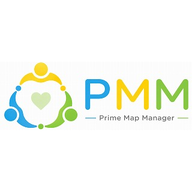
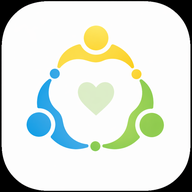
Add files via upload

Changed region(s): [[0.0, 0.0, 1.0, 1.0]]

diff --git a/styles.css b/styles.css
@@ -16,7 +16,7 @@ dialog{border:0;border-radius:22px;padding:0;background:var(--panel);color:var(-
 .dialog-head-actions{display:flex;align-items:center;gap:8px;}
 
 
-/* v007 adjustments */
+/* v008 adjustments */
 .helper-actions{margin-top:8px;flex-wrap:wrap}
 .preview-dialog{width:100vw!important;height:100dvh!important;max-width:none!important;border-radius:0!important;background:#000!important;padding:0!important}
 .preview-dialog img{width:min(92vw,620px)!important;height:auto!important;max-height:88dvh!important;object-fit:contain!important}
@@ -28,4 +28,49 @@ dialog{border:0;border-radius:22px;padding:0;background:var(--panel);color:var(-
   .home-card .toolbar-actions{gap:8px}
   .helper-actions .secondary-btn{font-size:12px;padding:7px 9px;min-height:34px}
   .preview-dialog img{width:94vw!important;max-height:84dvh!important}
+}
+
+/* v008 refinements */
+.form-row textarea{min-height:170px!important;line-height:1.55!important}
+@media(max-width:640px){.form-row textarea{min-height:190px!important}}
+.preview-dialog{
+  position:fixed!important;
+  top:calc(env(safe-area-inset-top) + 10px)!important;
+  left:50%!important;
+  transform:translateX(-50%)!important;
+  width:min(96vw,720px)!important;
+  height:auto!important;
+  max-height:46dvh!important;
+  max-width:none!important;
+  border-radius:18px!important;
+  background:rgba(0,0,0,.92)!important;
+  padding:48px 10px 12px!important;
+  display:none;
+  place-items:center;
+  overflow:hidden!important;
+  z-index:9999!important;
+}
+.preview-dialog[open]{display:grid!important}
+.preview-dialog::backdrop{background:transparent!important}
+.preview-dialog img{
+  width:auto!important;
+  max-width:92vw!important;
+  height:auto!important;
+  max-height:calc(46dvh - 70px)!important;
+  object-fit:contain!important;
+}
+.preview-close{
+  position:absolute!important;
+  right:12px!important;
+  top:8px!important;
+  color:#fff!important;
+  background:rgba(15,23,42,.78)!important;
+  border-color:rgba(255,255,255,.35)!important;
+  min-height:36px!important;
+  padding:7px 12px!important;
+  z-index:2!important;
+}
+@media(max-width:640px){
+  .preview-dialog{top:calc(env(safe-area-inset-top) + 6px)!important;width:96vw!important;max-height:43dvh!important;padding-top:44px!important}
+  .preview-dialog img{max-height:calc(43dvh - 62px)!important;max-width:92vw!important}
 }

diff --git a/index.html b/index.html
@@ -6,7 +6,7 @@
   <meta name="theme-color" content="#0f4c81">
   <title>PMM Pocket Web</title>
   <link rel="manifest" href="manifest.webmanifest">
-  <link rel="stylesheet" href="styles.css?v=007">
+  <link rel="stylesheet" href="styles.css?v=008">
 </head>
 <body>
   <div id="app">
@@ -15,7 +15,7 @@
         <img src="assets/icon-192.png" alt="PMM" class="brand-icon">
         <div>
           <div class="brand-title">PMM Pocket Web</div>
-          <div class="brand-sub">PMMスマホ版 v007</div>
+          <div class="brand-sub">PMMスマホ版 v008</div>
         </div>
       </div>
       <button id="darkToggle" class="ghost-btn" type="button" data-dark-toggle>ダーク</button>
@@ -26,7 +26,7 @@
         <div class="start-brand">
           <img src="assets/icon-192.png" alt="PMM" class="start-icon">
           <h1>PMM Pocket Web</h1>
-          <div class="start-version">PMMスマホ版 v007</div>
+          <div class="start-version">PMMスマホ版 v008</div>
         </div>
         <p class="notice">
           PC版PMMとWeb版で同じ保存ファイルを同時に編集すると 上書き事故の原因になります<br>
@@ -55,7 +55,7 @@
               <img src="assets/icon-192.png" alt="PMM" class="brand-icon">
               <div>
                 <div class="brand-title">PMM Pocket Web</div>
-                <div class="brand-sub">PMMスマホ版 v007</div>
+                <div class="brand-sub">PMMスマホ版 v008</div>
               </div>
             </div>
             <p class="notice small-notice">PC版PMMを閉じてから使ってください</p>
@@ -172,6 +172,6 @@
   </dialog>
 
   <div id="toast" class="toast"></div>
-  <script src="app.js?v=007"></script>
+  <script src="app.js?v=008"></script>
 </body>
 </html>

diff --git a/app.js b/app.js
@@ -1,7 +1,7 @@
 'use strict';
 const $ = sel => document.querySelector(sel);
 const $$ = sel => Array.from(document.querySelectorAll(sel));
-const APP_VERSION = 'PMM Pocket Web v007';
+const APP_VERSION = 'PMM Pocket Web v008';
 const state = { data:null, fileName:'pmm_data.json', fileHandle:null, dirty:false, edit:{type:null,id:null,index:null}, photoTarget:null, crop:{img:null,scale:1,rotation:0,dx:0,dy:0,drag:false,lastX:0,lastY:0} };
 const typeLabels = ['P','PS','K','KS','K（要フォロー）','KS（要フォロー）'];
 const titleOptions = ['','ONE','GM','PM','ECM','DCM','PDCM'];
@@ -89,7 +89,7 @@ function setCurrentPhoto(b64){const obj=getCurrentObj(); if(obj){obj.photo_data=
 function loadCropFile(file){if(!file)return; const img=new Image(); img.onload=()=>{state.crop.img=img; state.crop.scale=Math.max(320/img.width,320/img.height); $('#zoomRange').value=state.crop.scale; state.crop.dx=0; state.crop.dy=0; drawCrop()}; img.src=URL.createObjectURL(file)}
 function drawCrop(){const c=$('#cropCanvas'),ctx=c.getContext('2d'),cr=state.crop; ctx.clearRect(0,0,c.width,c.height); ctx.fillStyle='#111';ctx.fillRect(0,0,c.width,c.height); if(!cr.img)return; ctx.save(); ctx.translate(c.width/2+cr.dx,c.height/2+cr.dy); ctx.rotate(cr.rotation*Math.PI/180); ctx.scale(cr.scale,cr.scale); ctx.drawImage(cr.img,-cr.img.width/2,-cr.img.height/2); ctx.restore()}
 function applyPhoto(){const src=$('#cropCanvas'); const out=document.createElement('canvas'); out.width=160; out.height=160; const o=out.getContext('2d'); o.drawImage(src,40,40,240,240,0,0,160,160); setCurrentPhoto(stripDataUrl(out.toDataURL('image/jpeg',0.72))); $('#photoDialog').close(); $('#editDialog').close(); toast('写真を記入しました。最後にJSON書き出ししてください')}
-function preview(src){if(!src)return; $('#previewImage').src=src; $('#previewDialog').showModal()}
+function preview(src){if(!src)return; const d=$('#previewDialog'); $('#previewImage').src=src; if(!d.open)d.show();}
 function showInfo(kind){const help=`<p><strong>使い方</strong></p><ol><li>PC版PMMを閉じます</li><li>JSON読込でPMM保存ファイルを読み込みます</li><li>自メンバー活動管理や他メンバー辞書を編集します</li><li>最後にJSON書き出しで保存します</li><li>PC版PMMで書き出したJSONを開きます</li></ol><p>このWeb版はデータをサーバーへ保存しません。読み込んだJSONはブラウザ内で処理します。</p>`;
  const about=`<p><strong>PMM Pocket Web</strong><br>${APP_VERSION}</p><p>PC版PMMで作成したJSONをスマホやPCブラウザで確認・編集する補助ツールです。</p><p>お問い合わせ先：兵藤 茂樹<br>LINE: https://line.me/ti/p/XJt7xbeJ1j</p>`;
  const ios=`<p><strong>iPhoneでホーム画面に追加</strong></p><ol><li>Safariでこのページを開きます</li><li>画面下または上の共有ボタンを押します</li><li><strong>ホーム画面に追加</strong>を選びます</li><li>追加を押すとアプリのように開けます</li></ol><p>Safari以外では表示が違う場合があります。</p>`;
@@ -106,6 +106,6 @@ function init(){ if(localStorage.getItem('pmmPocketDark')==='1')document.body.cl
  document.addEventListener('click',e=>{ if(e.target?.id==='photoEditBtn')openPhoto(); if(e.target?.id==='photoRemoveBtn'){setCurrentPhoto(''); $('#editDialog').close(); toast('写真を削除しました。最後にJSON書き出ししてください')}});
  $('#closePhotoBtn').onclick=()=>$('#photoDialog').close(); $('#photoFileInput').onchange=e=>loadCropFile(e.target.files[0]); $('#photoCameraInput').onchange=e=>loadCropFile(e.target.files[0]); $('#rotatePhotoBtn').onclick=()=>{state.crop.rotation=(state.crop.rotation+90)%360;drawCrop()}; $('#clearPhotoBtn').onclick=()=>{setCurrentPhoto('');$('#photoDialog').close();$('#editDialog').close();toast('写真を削除しました。最後にJSON書き出ししてください')}; $('#applyPhotoBtn').onclick=applyPhoto; $('#zoomRange').oninput=e=>{state.crop.scale=Number(e.target.value);drawCrop()};
  const cw=$('.crop-wrap'); cw.addEventListener('pointerdown',e=>{state.crop.drag=true;state.crop.lastX=e.clientX;state.crop.lastY=e.clientY;cw.setPointerCapture(e.pointerId)}); cw.addEventListener('pointermove',e=>{if(!state.crop.drag)return;state.crop.dx+=e.clientX-state.crop.lastX;state.crop.dy+=e.clientY-state.crop.lastY;state.crop.lastX=e.clientX;state.crop.lastY=e.clientY;drawCrop()}); cw.addEventListener('pointerup',()=>state.crop.drag=false);
- if('serviceWorker' in navigator){navigator.serviceWorker.register('./sw.js?v=007').then(r=>r.update()).catch(()=>{})}
+ if('serviceWorker' in navigator){navigator.serviceWorker.register('./sw.js?v=008').then(r=>r.update()).catch(()=>{})}
 }
 document.addEventListener('DOMContentLoaded',init);

diff --git a/sw.js b/sw.js
@@ -1,4 +1,4 @@
-const CACHE='pmm-pocket-web-v007';
+const CACHE='pmm-pocket-web-v008';
 const ASSETS=['./','./index.html','./styles.css','./app.js','./manifest.webmanifest','./assets/icon-192.png','./assets/icon-512.png','./assets/pmm_logo.jpg'];
 
 self.addEventListener('install', event => {